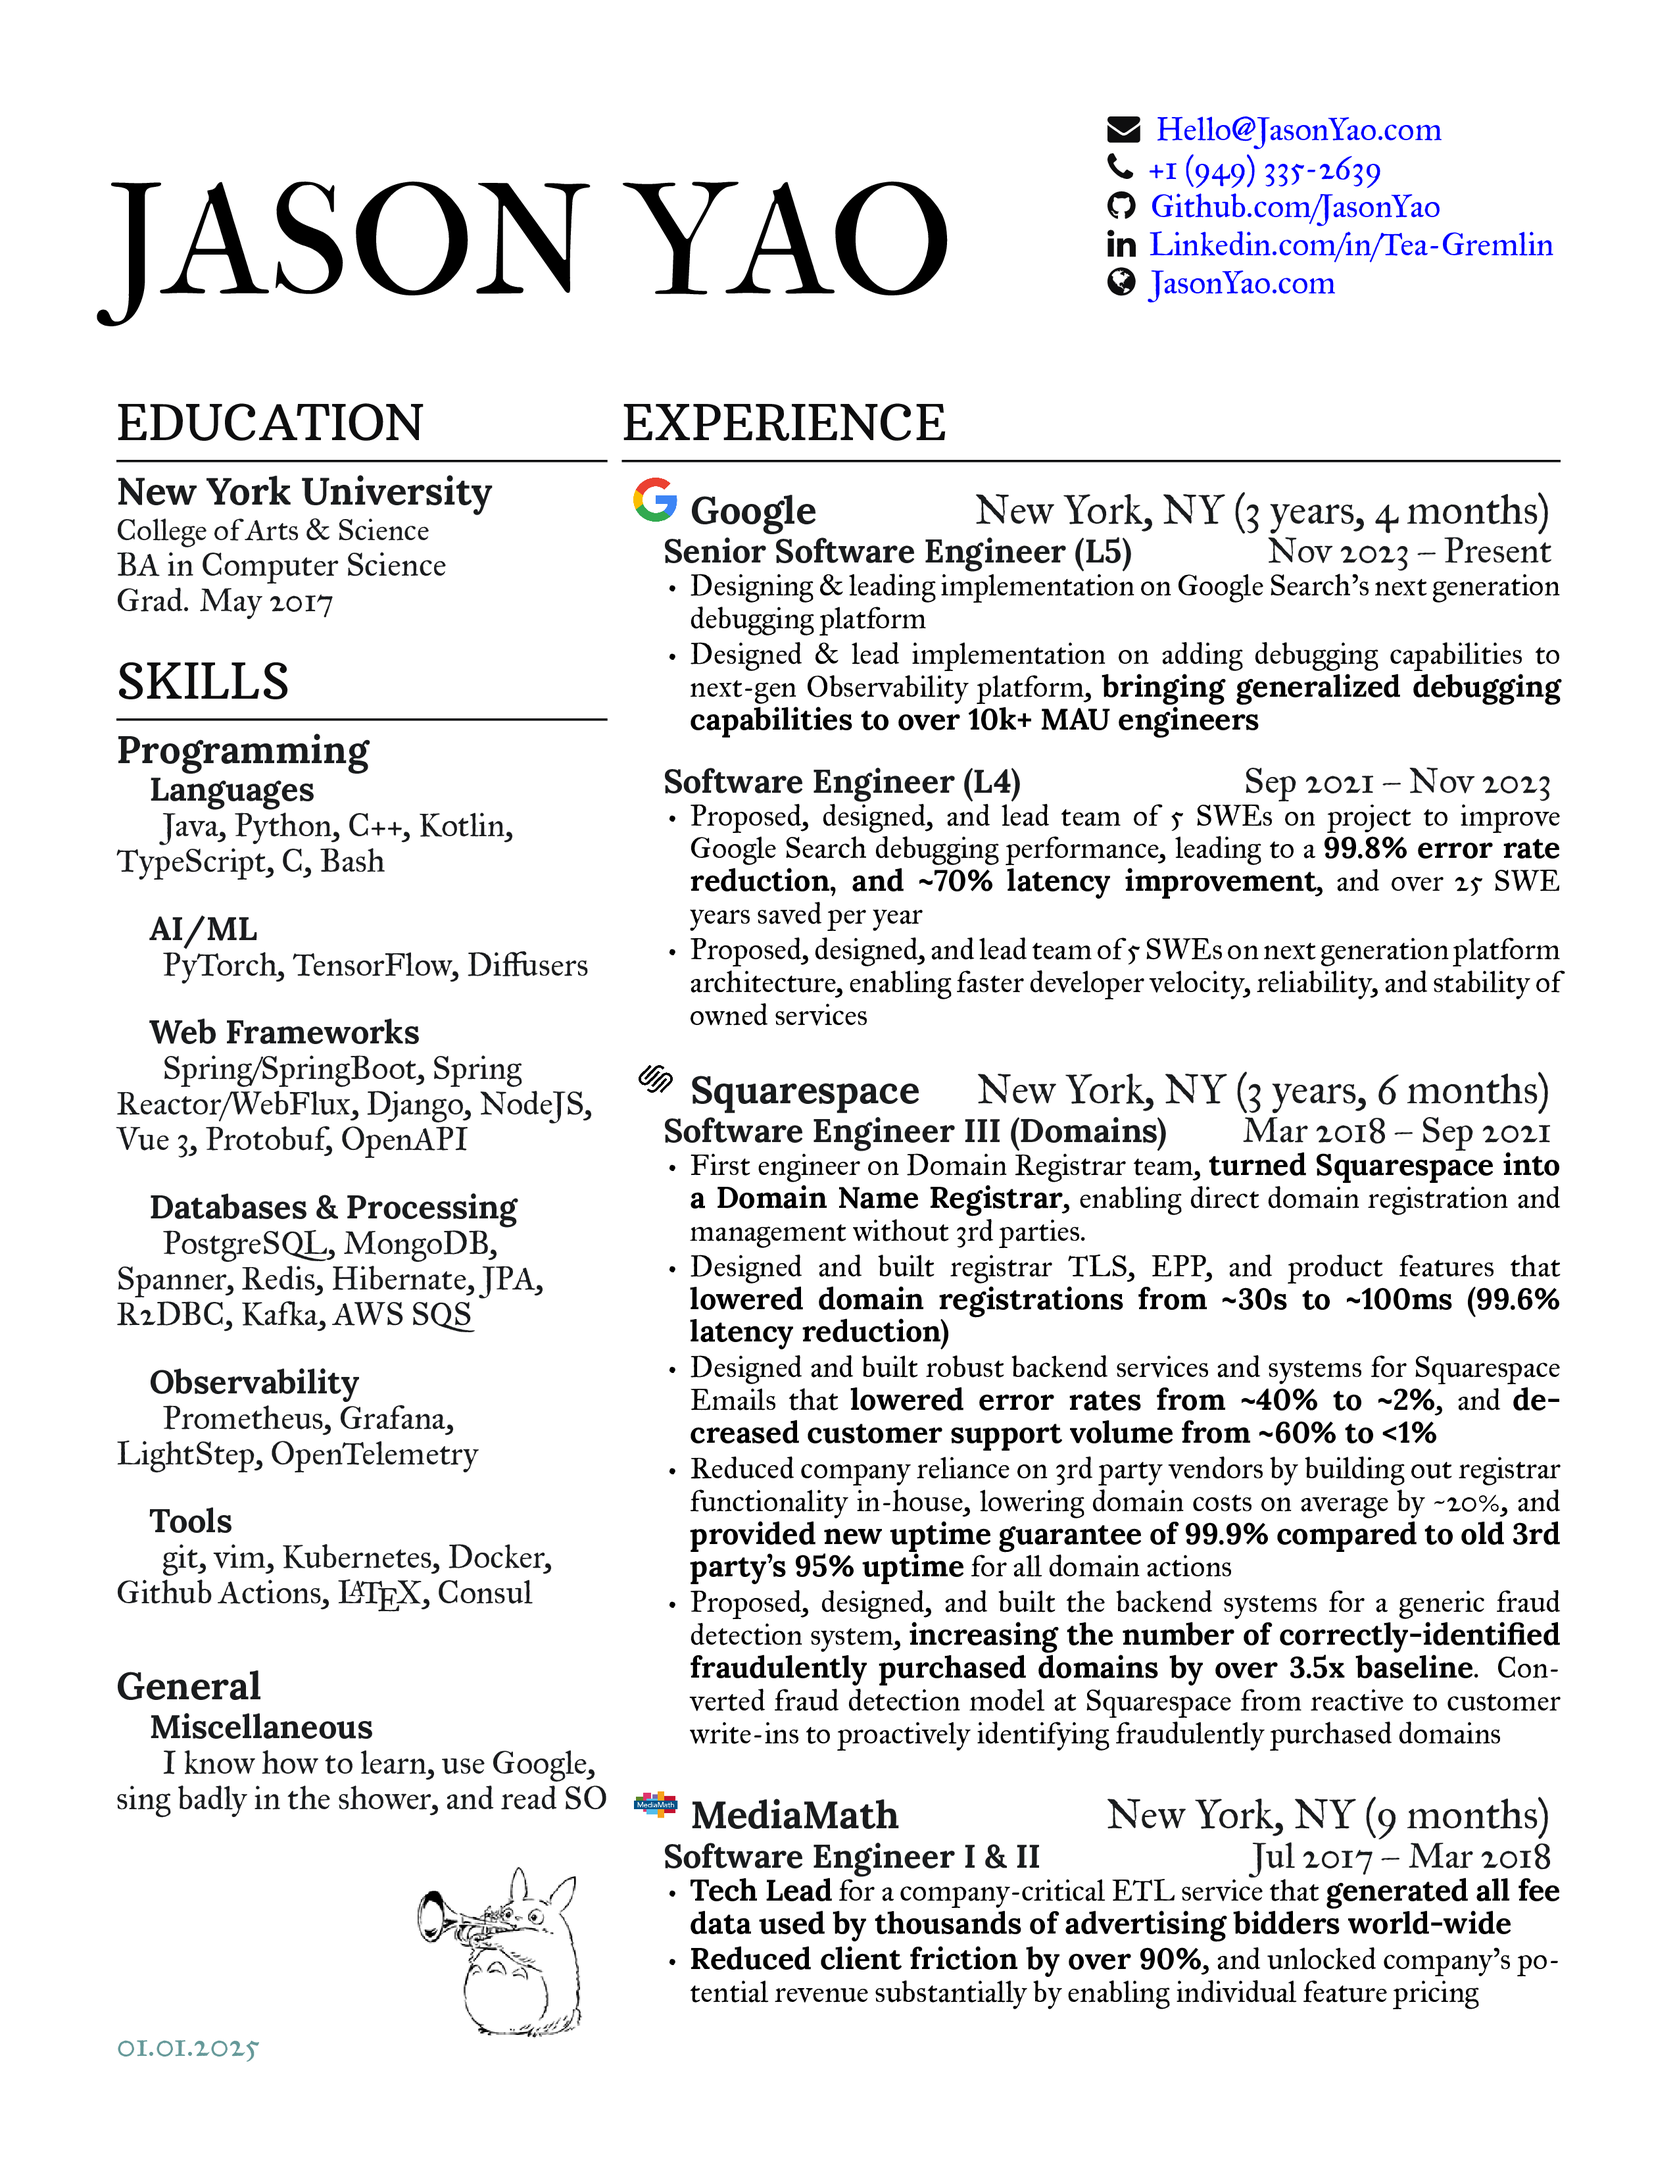
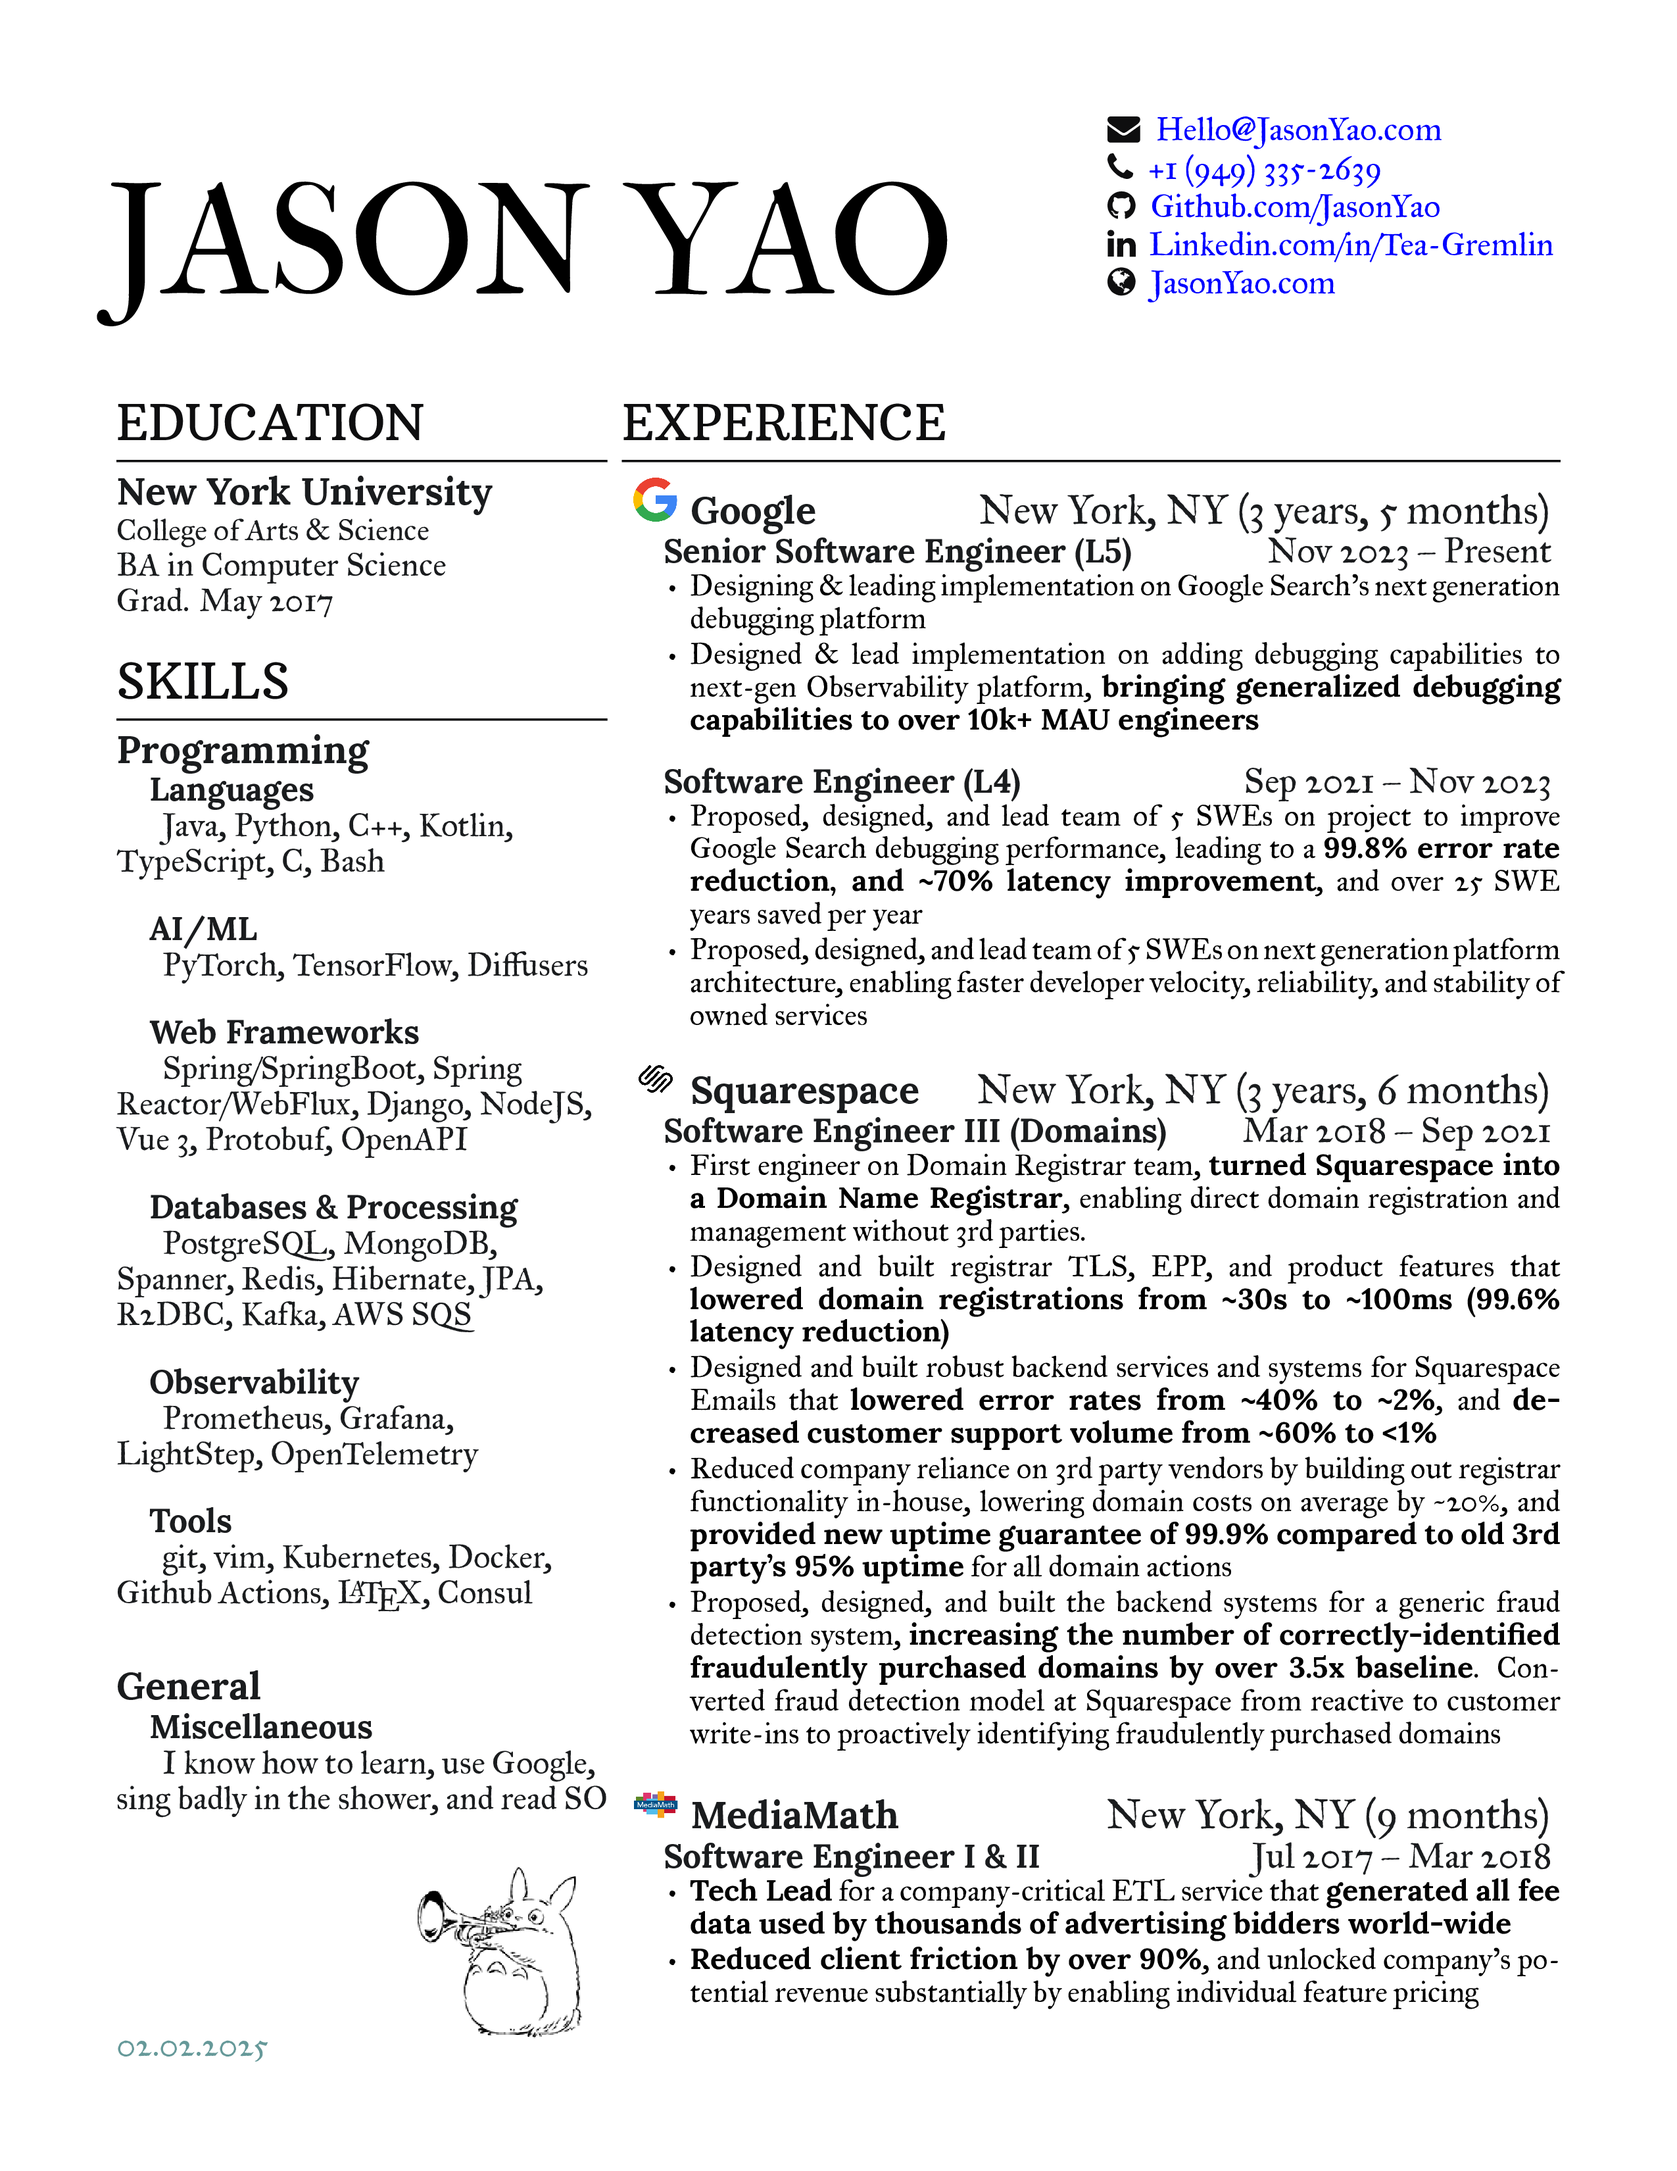
[Build] aaa6a6733e12ff0f655dbd3bb3c4efd5134d0f44

Changed region(s): [[0.5886, 0.2185, 0.8365, 0.2497], [0.0929, 0.9364, 0.1549, 0.9676]]

diff --git a/Resume_Jason_Yao.tex b/Resume_Jason_Yao.tex
@@ -155,7 +155,7 @@ I know how to learn, use Google, sing badly in the shower, and read SO
 %
 \section{Experience}
 
-    \workplace{logos/short/google}{Google}{New York, NY}{3 years, 4 months}
+    \workplace{logos/short/google}{Google}{New York, NY}{3 years, 5 months}
             \position{Senior Software Engineer (L5)}{Nov 2023 – Present}
         \vspace{\topsep} % Hacky fix for awkward extra vertical space
         \begin{tightemize}
